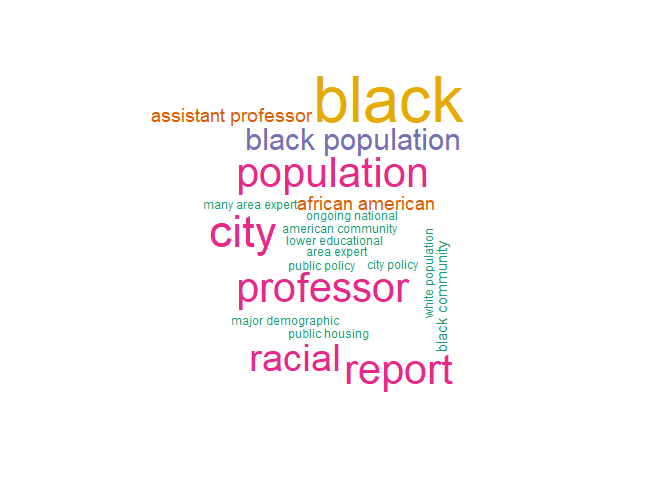
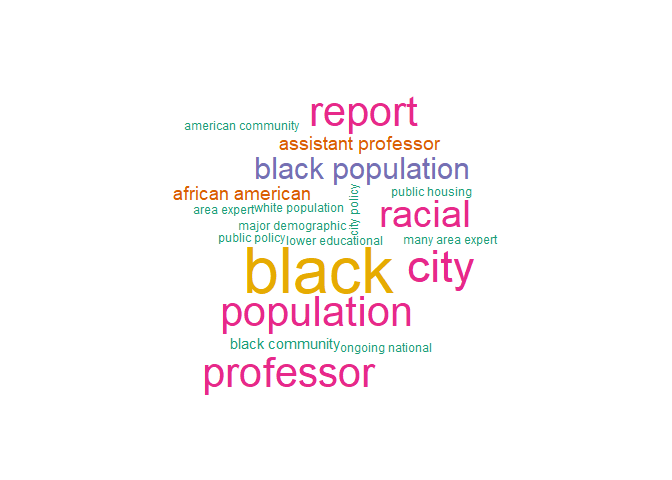
Add files via upload

Changed region(s): [[0.2188, 0.1562, 0.75, 0.8125]]

diff --git a/ReadMe.md b/ReadMe.md
@@ -352,7 +352,7 @@ phrases left, I add in the other keywords.
 try(multi <- keyw %>% filter(ngram > 1), silent = T) # In case there are no multi-word keywords
 single <- keyw %>% filter(ngram == 1) %>% arrange(desc(freq)) # sort by descending freq
 
-if (sum(keyw$ngram > 1) > 1) {
+if (sum(keyw$ngram >= 1) > 1) {
   if (nrow(multi) >= 20) { # if more than 20 multi phrase keywords, plot only these
     toplot <- multi
   } else if (nrow(multi) < 20 & nrow(keyw >= 20)) { # Fill in with most frequent singles until reach 20
